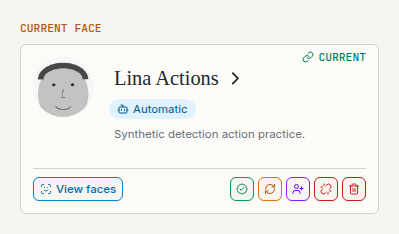
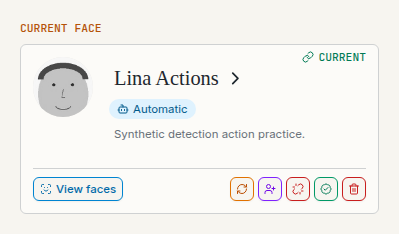
Order card actions like the scan action bar (#49)
The card now lists Link/Reassign, New, Unlink, Verify and Delete, matching
the bar's Link/Reassign, Unlink, Verify, Delete order with the card-only
New beside the other assignment action. Refresh the card evidence.

Changed region(s): [[0.5714, 0.7479, 0.8421, 0.8675]]

diff --git a/people-gator-app/src/__tests__/FaceActionButtons.spec.ts b/people-gator-app/src/__tests__/FaceActionButtons.spec.ts
@@ -1,6 +1,8 @@
-import { mount } from '@vue/test-utils'
+import { mount, RouterLinkStub } from '@vue/test-utils'
+import { h } from 'vue'
 import { describe, expect, it } from 'vitest'
 import FaceActionButtons from '@/components/custom/FaceActionButtons.vue'
+import SelectedFaceItem from '@/components/custom/SelectedFaceItem.vue'
 import type { Face } from '@/viewmodels/document-workspace.types'
 
 const face: Face = {
@@ -43,4 +45,34 @@ it('uses one icon group, emits actions, and respects link state and permissions'
   expect(wrapper.find('[aria-label="Unassign current profile"]').exists()).toBe(false)
   await wrapper.setProps({ canAnnotate: false })
   expect(wrapper.findAll('button')).toHaveLength(0)
+})
+
+it('orders the card actions like the scan action bar', () => {
+  const labels = (wrapper: ReturnType<typeof mount>) =>
+    wrapper.findAll('button[aria-label]').map((button) => button.attributes('aria-label')!)
+  const bar = labels(
+    mount(FaceActionButtons, { props: { face, canAnnotate: true, canDelete: true } }),
+  )
+  const card = labels(
+    mount(SelectedFaceItem, {
+      props: { face, canDelete: true },
+      // The page passes the inline Verify control through this slot.
+      slots: { actions: () => h('button', { 'aria-label': 'Verify this link' }) },
+      global: { stubs: { RouterLink: RouterLinkStub, IdentityFacePreview: true } },
+    }),
+  )
+  expect(bar).toEqual([
+    'Reassign to another profile',
+    'Unassign current profile',
+    'Verify this link',
+    'Delete detection',
+  ])
+  // New is card-only and sits beside the other assignment action.
+  expect(card).toEqual([
+    'Reassign to another profile',
+    'Create and assign a new profile',
+    'Unassign current profile',
+    'Verify this link',
+    'Delete detection',
+  ])
 })

diff --git a/people-gator-app/src/components/custom/SelectedFaceItem.vue b/people-gator-app/src/components/custom/SelectedFaceItem.vue
@@ -228,7 +228,6 @@ watch(() => props.face.id, cancelCreating)
           :name="face.name"
         />
         <div class="ml-auto flex min-w-0 flex-wrap items-center justify-end gap-1">
-          <slot name="actions" />
           <UiTooltip v-if="face.personId" text="Reassign to another profile">
             <Button
               type="button"
@@ -281,6 +280,8 @@ watch(() => props.face.id, cancelCreating)
               <Unlink aria-hidden="true" />
             </Button>
           </UiTooltip>
+          <!-- Same order as the scan action bar: link, unlink, verify, delete. -->
+          <slot name="actions" />
           <UiTooltip v-if="canDelete" text="Delete detection">
             <Button
               type="button"

diff --git a/people-gator-api/docs/PREVIEW-SEEDING.md b/people-gator-api/docs/PREVIEW-SEEDING.md
@@ -998,8 +998,9 @@ checks Nora's empty gallery and preserves a reviewed assignment on rerun.
 
 `identity-reference-faces` also selects an assigned manual face for checking the
 card's compact footer: **View faces** stays on the left, and icon-only
-**Verify**, **Reassign**/**Link**, **New**, **Unlink** and (for admins)
+**Reassign**/**Link**, **New**, **Unlink**, **Verify** and (for admins)
 **Delete detection** buttons are grouped on the right, each with a hover tooltip.
+They follow the scan action bar's order, with the card-only New beside Link.
 The row keeps one line, so linking a face does not change the card height. Verification errors appear inside the
 card below the actions; verified attribution stays available on the state badge.
 
